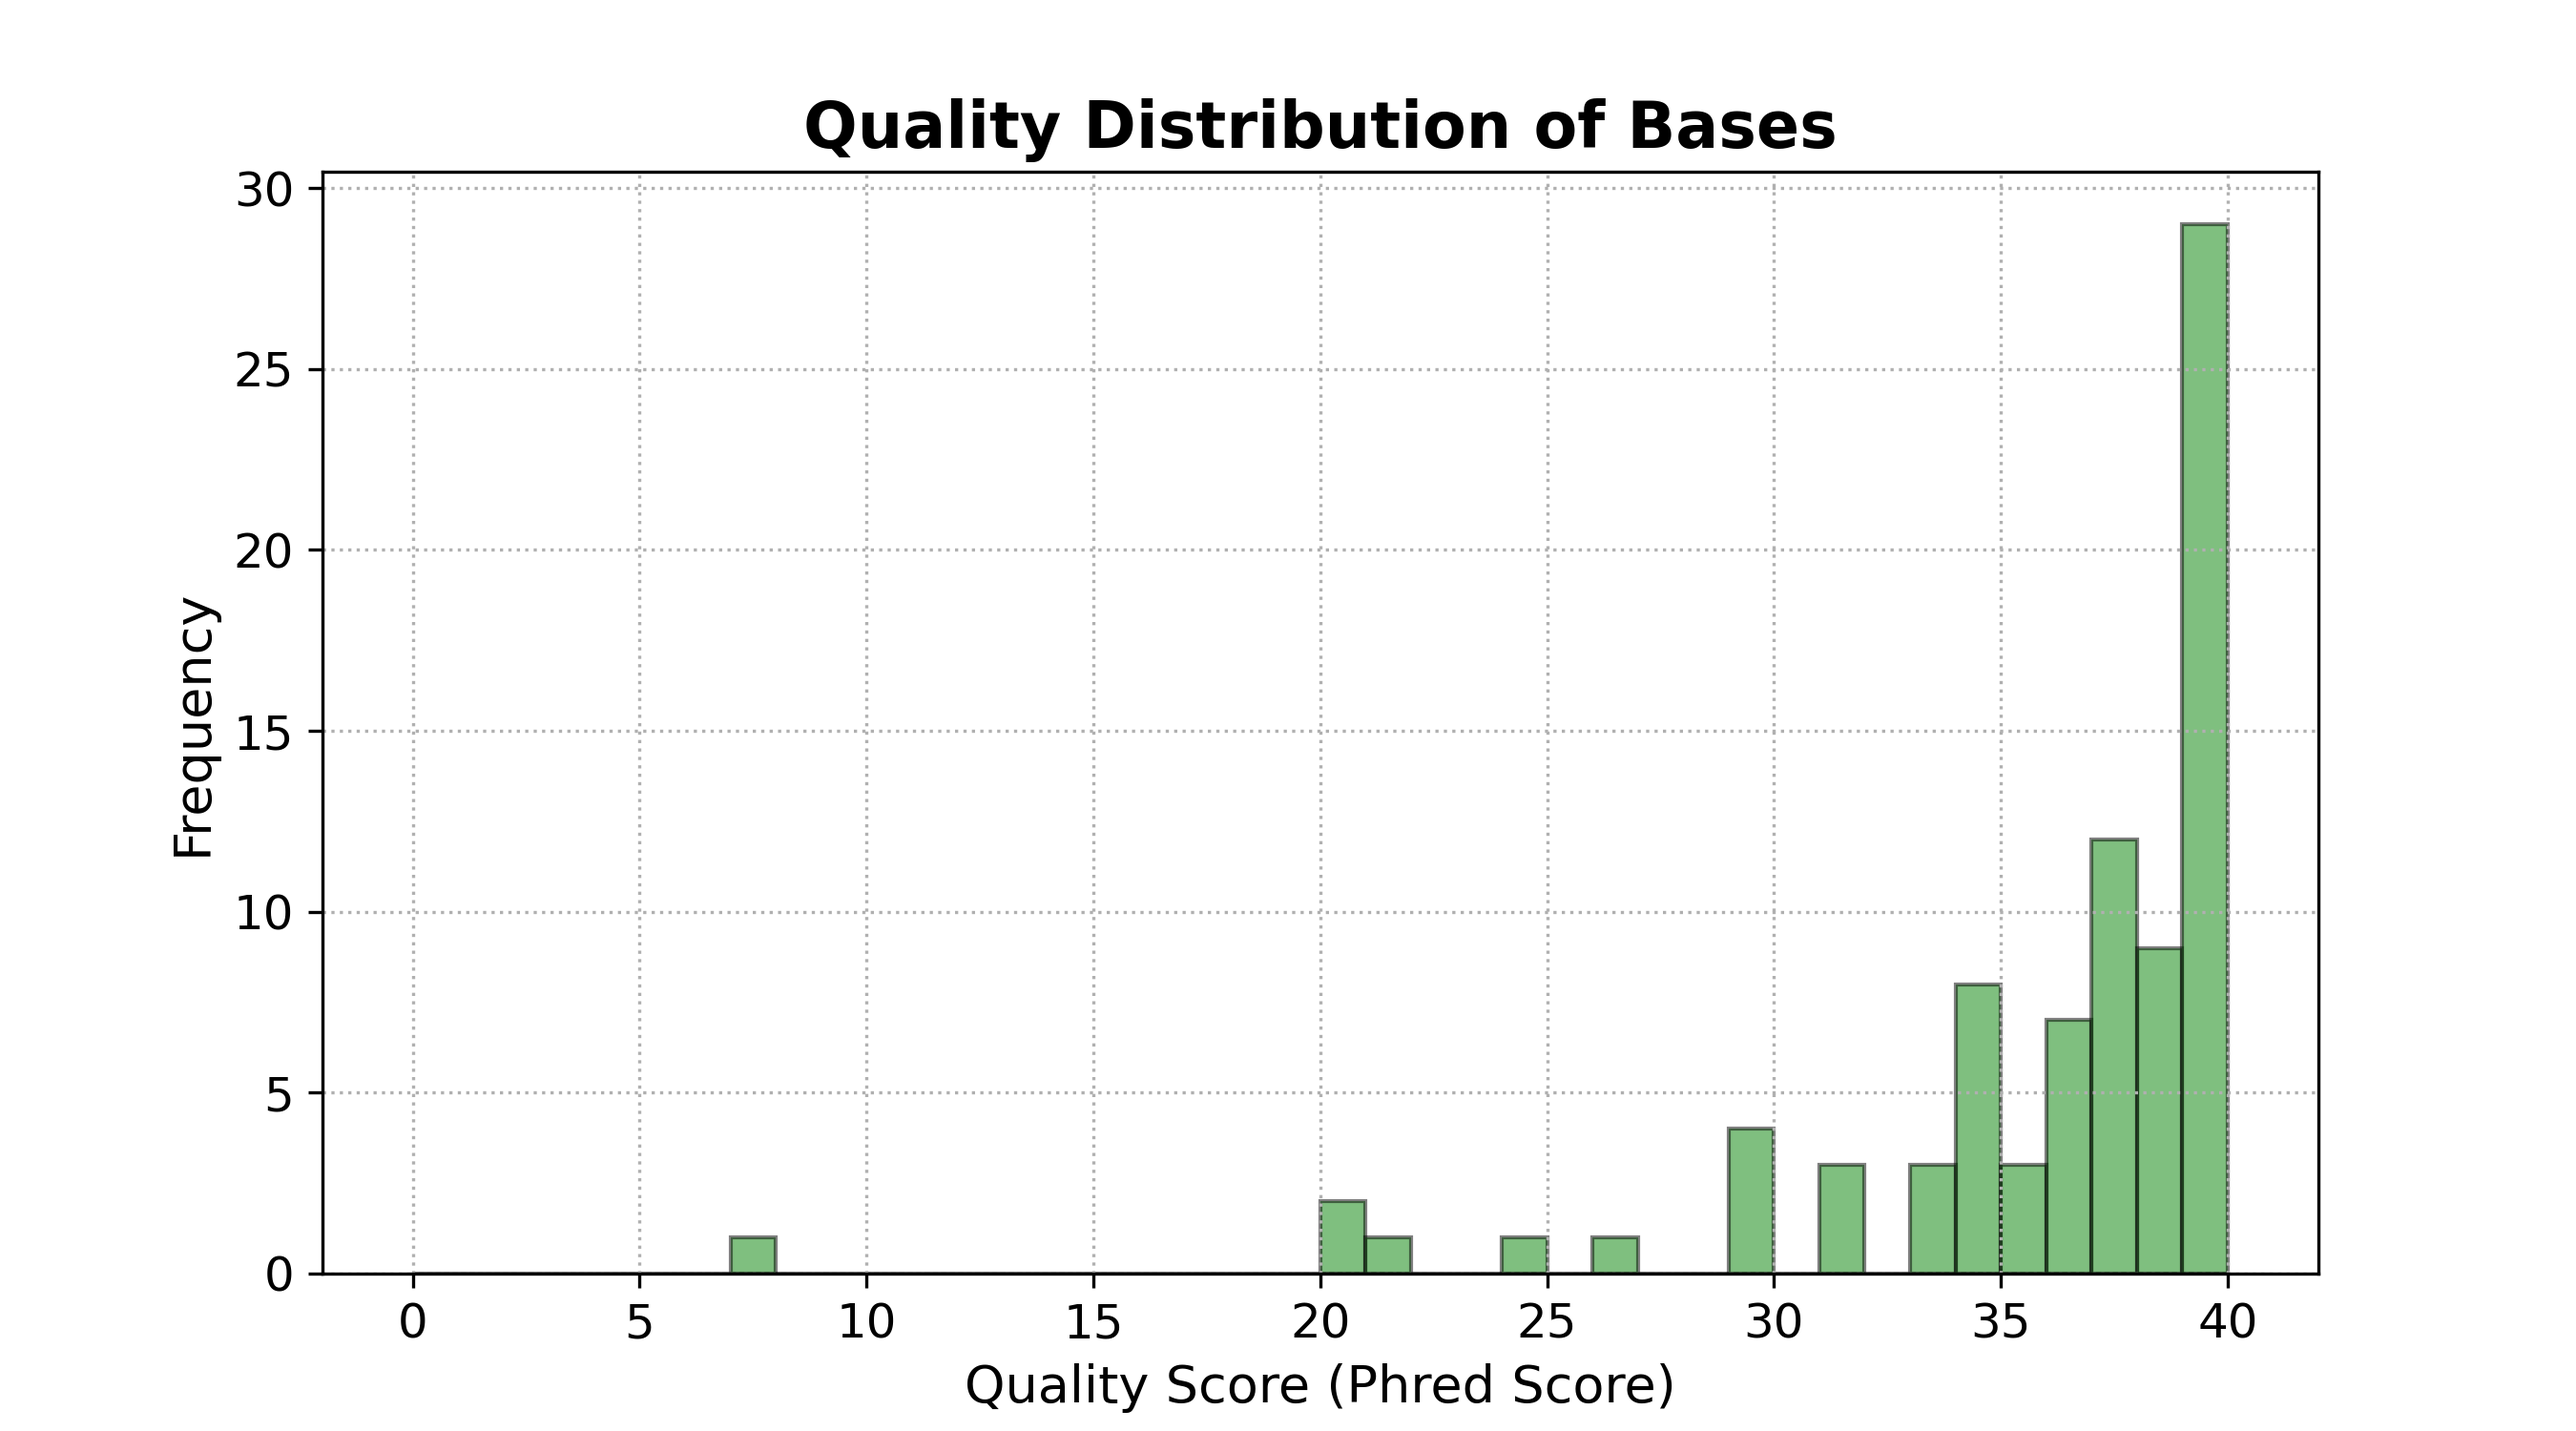
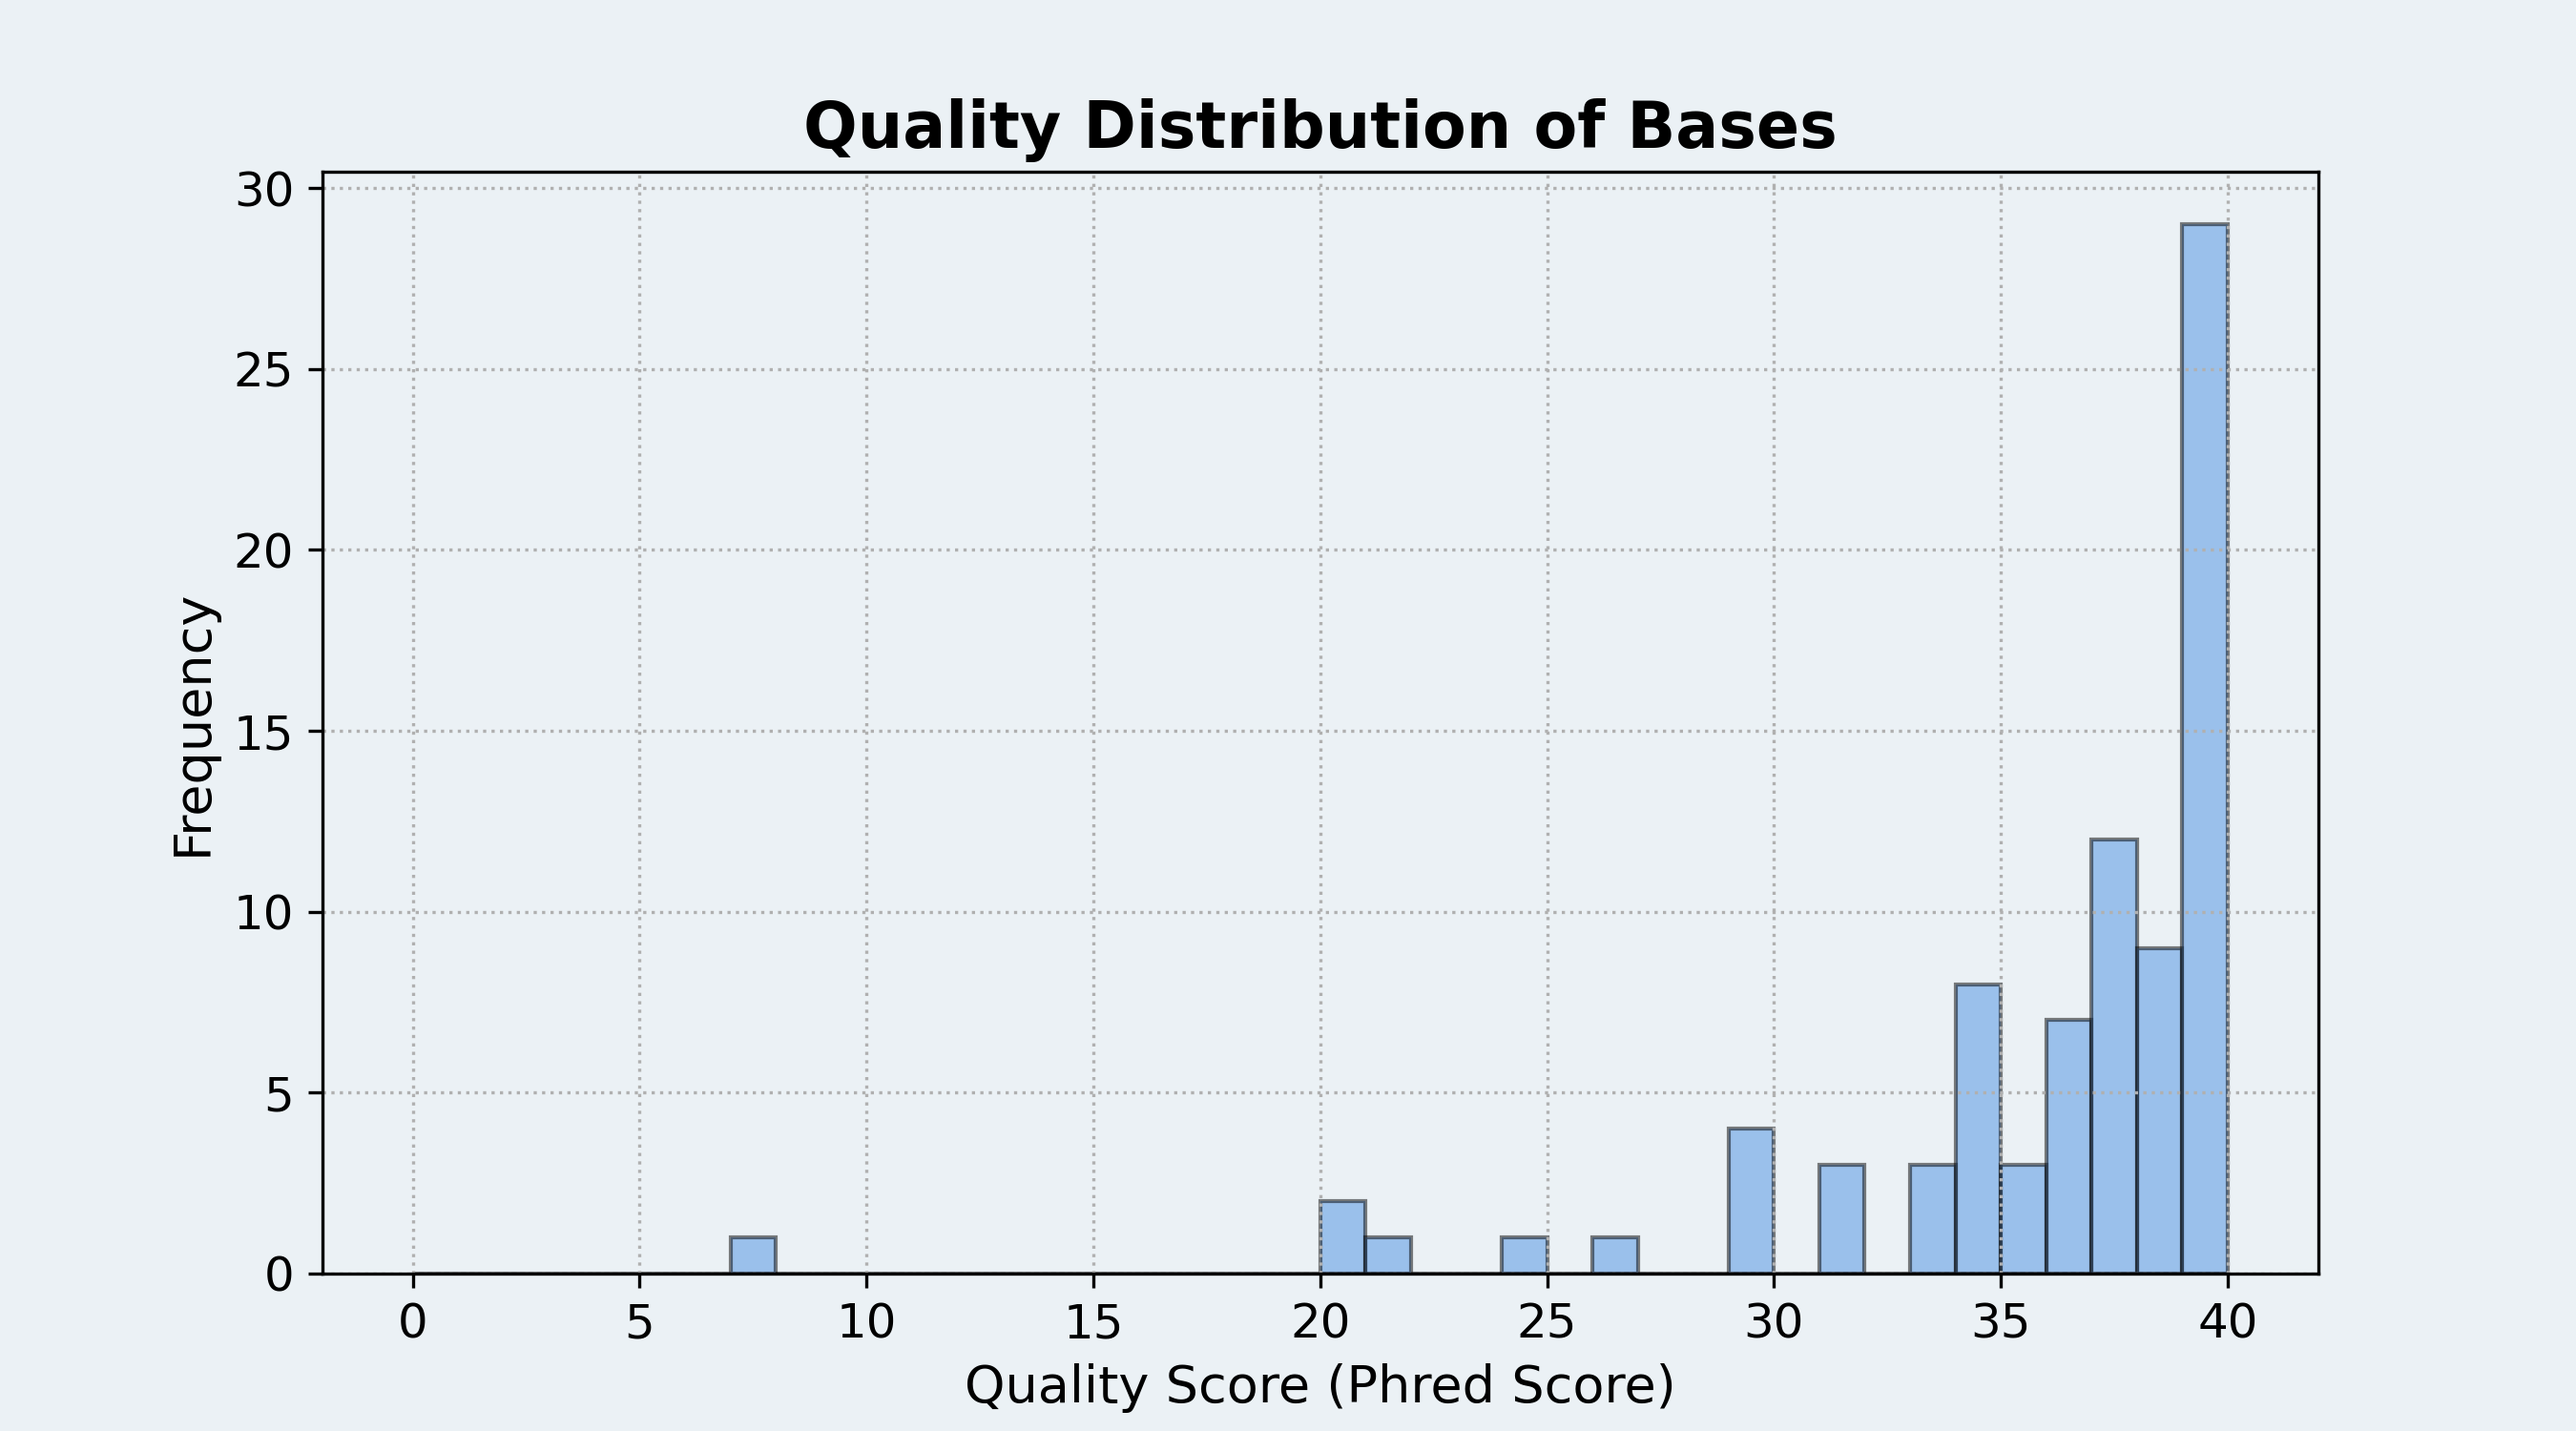
finished html file stuff

Changed region(s): [[0.4978, 0.1533, 0.8711, 0.8893], [0.28, 0.8587, 0.3111, 0.8893]]

diff --git a/phastatsReports.html b/phastatsReports.html
@@ -1,3 +1,4 @@
+
 <html>
   <style type="text/css">
     @font-face {
@@ -26,12 +27,32 @@
       width: 45%;
       height: auto;
     }
+
+    .summary {
+        display: flex;
+        flex-wrap: wrap;
+        margin: 5px;
+        width: 100%;
+        border-bottom: 1px solid #000;
+        border-top: 1px solid #000;
+    }
+    
+    p {
+        flex: 1 0 auto;
+        font-family: "Monsterrat", sans-serif;
+    }
   </style>
 
   <body>
     <h1>Phastats Report</h1>
+    <hr>
+    <div class="summary">
+    
+<p>Filename:                     samples/data1.fq</p><p>File type:                    FASTQ          </p><p>Total sequences:              6              </p><p>Sequences flagged as poor quality: 0              </p><p>Average sequence length:      101.00         </p><p>GC content (%):               42.41          </p>
+    </div>
+    <hr>
     <div class="image-container">
-      <img src="plots/Per-base_sequnce_content.png" alt="plot" />
+    <img src="plots/Per-base_sequnce_content.png" alt="plot" />
       <img src="plots/gc-distribution.png" alt="plot" />
       <img src="plots/length_distribution.png" alt="plot" />
       <img src="plots/quality-distribution.png" alt="plot" />

diff --git a/phastats.py b/phastats.py
@@ -7,8 +7,72 @@ import numpy as np
 import scipy.stats as stats
 import os
 import pandas as pd
-font_path = "C:/Users/emily/OneDrive/Documents/GitHub/phastats/fonts/Montserrat-Regular.ttf"
-font_prop = fm.FontProperties(fname=font_path, size=16)
+
+htmlString1 = """
+<html>
+  <style type="text/css">
+    @font-face {
+      font-family: "Monsterrat";
+      src: url("fonts/Montserrat-Regular.ttf") format("truetype");
+    }
+    body {
+      font-family: "Monsterrat", sans-serif;
+      margin: 20px;
+      background-color: ebf1f5;
+      display: flex;
+      flex-direction: column;
+      align-items: center;
+    }
+    h1 {
+      color: #414850;
+      font-size: 5vw;
+    }
+    .image-container {
+      display: flex;
+      flex-wrap: wrap;
+      justify-content: space-around;
+    }
+    img {
+      margin: 10px;
+      width: 45%;
+      height: auto;
+    }
+
+    .summary {
+        display: flex;
+        flex-wrap: wrap;
+        margin: 5px;
+        width: 100%;
+        border-bottom: 1px solid #000;
+        border-top: 1px solid #000;
+    }
+    
+    p {
+        flex: 1 0 auto;
+        font-family: "Monsterrat", sans-serif;
+    }
+  </style>
+
+  <body>
+    <h1>Phastats Report</h1>
+    <hr>
+    <div class="summary">
+    
+"""
+
+htmlString2 = """
+    </div>
+    <hr>
+    <div class="image-container">
+    <img src="plots/Per-base_sequnce_content.png" alt="plot" />
+      <img src="plots/gc-distribution.png" alt="plot" />
+      <img src="plots/length_distribution.png" alt="plot" />
+      <img src="plots/quality-distribution.png" alt="plot" />
+    </div>
+  </body>
+</html>
+"""
+
 
 def getandPlotLengths(sequenceList):
     lengths = [len(sequence) for sequence in sequenceList]
@@ -18,28 +82,66 @@ def getandPlotQuality(qualityList):
     quality_scores = [ord(q) - 33 for q in qualityList[0]]  # Convert ASCII quality scores to Phred scores
     return plot_quality_distribution(quality_scores)
 
+def setup_plot(title, xlabel, ylabel):
+    plt.figure(figsize=(9, 5), facecolor='#ebf1f5')
+    ax = plt.gca()
+    ax.set_facecolor('#ebf1f5')
+    plt.title(title, fontsize=16, fontweight='bold')
+    plt.xlabel(xlabel, fontsize=13)
+    plt.ylabel(ylabel, fontsize=13)
+    plt.xticks(fontsize=12)
+    plt.yticks(fontsize=12)
+    plt.grid(True, linestyle='dotted')
+
+def plot_gc_distribution(gc_contents):
+    setup_plot('GC distribution over all sequences', 'Mean GC content (%)', 'Frequency')
+
+    # Histogram for GC content per read
+    count, bins, ignored = plt.hist(gc_contents, bins=50, density=True, alpha=0.6, color='#4A90E2', edgecolor='black', label='GC count per read')
+
+    # Fit a normal distribution to the data
+    mu, std = np.mean(gc_contents), np.std(gc_contents)
+    p = stats.norm.pdf(bins, mu, std)
+
+    # Plot the theoretical normal distribution
+    plt.plot(bins, p, linewidth=2, label='Theoretical Distribution', color='#D0021B')
+    plt.savefig("plots/gc-distribution.png", dpi=300)
+    plt.clf()
 
 def plot_length_distribution(lengths):
-    plt.figure(figsize=(9, 5))
-    plt.hist(lengths, bins=50, color='#333333', alpha=0.5, edgecolor='black')  # Blue color
-    plt.title('Length Distribution of Sequences', fontsize=16, fontweight='bold', fontproperties=font_prop)
-    plt.xlabel('Sequence Length', fontsize=13)
-    plt.ylabel('Frequency', fontsize=13)
-    plt.xticks(fontsize=12)
-    plt.yticks(fontsize=12)
-    plt.grid(True, linestyle='dotted')
-    plt.savefig("plots/length_distribution.png", dpi=300)  # Higher resolution
+    setup_plot('Length Distribution of Sequences', 'Sequence Length', 'Frequency')
+    plt.hist(lengths, bins=50, color='#4A90E2', alpha=0.5, edgecolor='black')  # Blue color
+    plt.savefig("plots/length_distribution.png", dpi=300) 
+    plt.clf()
 
 def plot_quality_distribution(quality_scores):
-    plt.figure(figsize=(9, 5))
-    plt.hist(quality_scores, bins=range(0, 41), color='#008000', alpha=0.5, edgecolor='black')  # Green color
-    plt.title('Quality Distribution of Bases', fontsize=16, fontweight='bold')
-    plt.xlabel('Quality Score (Phred Score)', fontsize=13)
-    plt.ylabel('Frequency', fontsize=13)
-    plt.xticks(fontsize=12)
-    plt.yticks(fontsize=12)
-    plt.grid(True, linestyle='dotted')
+    setup_plot('Quality Distribution of Bases', 'Quality Score (Phred Score)', 'Frequency')
+    plt.hist(quality_scores, bins=range(0, 41), color='#4A90E2', alpha=0.5, edgecolor='black')  # Green color
     plt.savefig("plots/quality-distribution.png", dpi=300)
+    plt.clf()
+
+def getandPlotPerBaseSequenceContent(lines):
+    # Read the FASTQ file and calculate the percent of each base per read
+    df = pd.DataFrame(columns=['%A', '%G', '%C', '%T'])
+    max_length = max(len(line) for line in lines)
+    for i in range(max_length):
+        A = sum(1 for line in lines if i < len(line) and line[i] == 'A')
+        G = sum(1 for line in lines if i < len(line) and line[i] == 'G')
+        C = sum(1 for line in lines if i < len(line) and line[i] == 'C')
+        T = sum(1 for line in lines if i < len(line) and line[i] == 'T')
+        total = A + G + C + T
+        if total > 0:  # avoid division by zero
+            df.loc[i] = [A/total, G/total, C/total, T/total]
+    # plot the percent of each base per read. y axis is percent, and 
+    # x axis is read position, or the row numnber
+    # write the plot to an html file
+    setup_plot('Per-Base Sequence Content', 'Read Position', 'Percent')
+    plt.plot(df['%A'], label='%A')  
+    plt.plot(df['%G'], label='%G')
+    plt.plot(df['%C'], label='%C')
+    plt.plot(df['%T'], label='%T')
+    plt.savefig("plots/Per-base_sequnce_content.png", dpi=300)
+    plt.clf()
 
 def getandPlotGCDistribution(gc_count, total_length, gc_contents):
     gc_content = calculate_gc_content(gc_count, total_length)
@@ -86,65 +188,21 @@ def parse_fastq(file):
 def calculate_gc_content(gc_count, total_length):
     return (gc_count / total_length) * 100 if total_length > 0 else 0
 
-def print_statistics(filename, total_sequences, poor_quality_sequences, total_length, gc_content):
+def write_statistics(filename, total_sequences, poor_quality_sequences, total_length, gc_content):
     average_length = total_length / total_sequences if total_sequences > 0 else 0
 
-    print(f"{'Measure':<30}{'Value':<15}")
-    print("-" * 45)
-    print(f"{'Filename':<30}{filename:<15}")
-    print(f"{'File type':<30}{'FASTQ':<15}")
-    print(f"{'Encoding':<30}{'Sanger / Illumina 1.8+':<15}")  # Assumed encoding
-    print(f"{'Total sequences':<30}{total_sequences:<15}")
-    print(f"{'Sequences flagged as poor quality':<30}{poor_quality_sequences:<15}")
-    print(f"{'Average sequence length':<30}{average_length:<15.2f}")
-    print(f"{'GC content (%)':<30}{gc_content:<15.2f}")
+    with open('phastatsReports.html', 'w') as f:
+        f.write(htmlString1)
+        f.write(f"<p>{'Filename: ':<30}{filename:<15}</p>")
+        f.write(f"<p>{'File type: ':<30}{'FASTQ':<15}</p>")  # Assumed encoding
+        f.write(f"<p>{'Total sequences: ':<30}{total_sequences:<15}</p>")
+        f.write(f"<p>{'Sequences flagged as poor quality: ':<30}{poor_quality_sequences:<15}</p>")
+        f.write(f"<p>{'Average sequence length: ':<30}{average_length:<15.2f}</p>")
+        f.write(f"<p>{'GC content (%): ':<30}{gc_content:<15.2f}</p>")
 
-def plot_gc_distribution(gc_contents):
-    plt.figure(figsize=(10, 6))
+        f.write(htmlString2)
 
-    # Histogram for GC content per read
-    count, bins, ignored = plt.hist(gc_contents, bins=50, density=True, alpha=0.6, color='r', edgecolor='black', label='GC count per read')
 
-    # Fit a normal distribution to the data
-    mu, std = np.mean(gc_contents), np.std(gc_contents)
-    p = stats.norm.pdf(bins, mu, std)
-
-    # Plot the theoretical normal distribution
-    plt.plot(bins, p, 'b-', linewidth=2, label='Theoretical Distribution')
-
-    plt.xlabel('Mean GC content (%)')
-    plt.ylabel('Frequency')
-    plt.title('GC distribution over all sequences')
-    plt.legend(loc='upper right')
-    plt.grid(True)
-    plt.savefig("plots/gc-distribution.png", dpi=300)
-    plt.clf()
-
-def getandPlotPerBaseSequenceContent(lines):
-    # Read the FASTQ file and calculate the percent of each base per read
-    df = pd.DataFrame(columns=['%A', '%G', '%C', '%T'])
-    max_length = max(len(line) for line in lines)
-    for i in range(max_length):
-        A = sum(1 for line in lines if i < len(line) and line[i] == 'A')
-        G = sum(1 for line in lines if i < len(line) and line[i] == 'G')
-        C = sum(1 for line in lines if i < len(line) and line[i] == 'C')
-        T = sum(1 for line in lines if i < len(line) and line[i] == 'T')
-        total = A + G + C + T
-        if total > 0:  # avoid division by zero
-            df.loc[i] = [A/total, G/total, C/total, T/total]
-    # plot the percent of each base per read. y axis is percent, and 
-    # x axis is read position, or the row numnber
-    # write the plot to an html file
-    plt.plot(df['%A'], label='%A')  
-    plt.plot(df['%G'], label='%G')
-    plt.plot(df['%C'], label='%C')
-    plt.plot(df['%T'], label='%T')
-    plt.xlabel('Read Position')
-    plt.ylabel('Percent')
-    plt.title('Per-Base Sequence Content')
-    plt.legend()
-    plt.savefig("plots/Per-base_sequnce_content.png", dpi=300)
-    plt.clf()
 
 def compute_n50(lengths):
     sorted_lengths = sorted(lengths, reverse=True)
@@ -179,7 +237,7 @@ def main():
 
     # Generate plot for perbase sequence content
     getandPlotPerBaseSequenceContent(sequences)
-
+    write_statistics(args.input_file, total_sequences, poor_quality_sequences, total_length, calculate_gc_content(gc_count, total_length))
 
 
 
